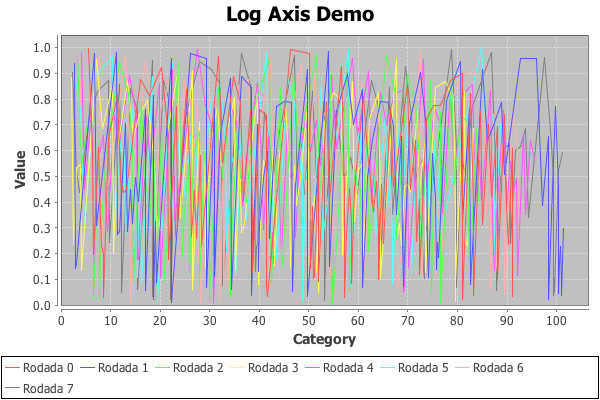
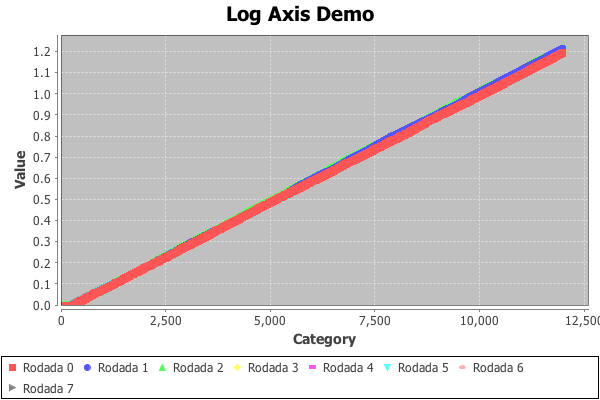
guradando testes - RETA ! qty

diff --git a/Simulador/src/br/ufrj/dcc/controle/Simulador.java b/Simulador/src/br/ufrj/dcc/controle/Simulador.java
@@ -5,6 +5,7 @@ import java.io.IOException;
 import java.util.ArrayList;
 import java.util.Collection;
 import java.util.Collections;
+import java.util.List;
 import java.util.Set;
 import java.util.TreeSet;
 
@@ -178,23 +179,38 @@ public class Simulador {
 		}
 		
 		int range = (int)rangeOfAxis;
-		range = (int) ((range *1.1)/listaRodadas.getNumRows());		
+		range = (int) ((range *1.2)/listaRodadas.getNumRows());		
 		
 		XYSeriesCollection dataset = new XYSeriesCollection();
 		
 		for (int i = 0; i < listaRodadas.getNumRows(); i++) {
-			Integer size = listaRodadas.getArrayListRow(i).size();
-			Double[] arr = new Double[listaRodadas.getArrayListRow(i).size()]; 
-			arr = listaRodadas.getArrayListRow(i).toArray(arr);
 			XYSeries serie = new XYSeries("Rodada "+ i);
 			
-
-			
+			ArrayList<Double> list = listaRodadas.getArrayListRow(i);
+			int listSize = list.size();
+			int qty = 0;
+			Double probability = 0.0;
 			for(Double axisX = 1.0 ; axisX <= range; axisX++)
 			{				
-				int nearIndex = NearUtil.nearInclusive(arr, axisX);
-				Double value = (nearIndex + 1) / size.doubleValue();
-				serie.add(axisX, value);
+				if(list.size() > 1)
+				{
+					int nearIndex = 0;
+					nearIndex = findNearestIndex(list, axisX);
+					if(nearIndex > 0)
+						list.removeAll(new ArrayList<Double>(list.subList(0, nearIndex + 1)));
+					else if(nearIndex == 0)
+						list.remove(0);
+					if(nearIndex >= 0)
+						qty += nearIndex + 1;
+				}
+				else
+				{
+					qty+= 1;
+					serie.add(axisX, probability);	
+				}
+				probability = (qty) / (double)listSize;
+				serie.add(axisX, probability);
+				
 			}
 			
 
@@ -202,7 +218,7 @@ public class Simulador {
 			
 		} 
 		
-        JFreeChart chart = ChartFactory.createXYLineChart(
+        JFreeChart chart = ChartFactory.createScatterPlot(
             "Log Axis Demo",          // chart title
             "Category",               // domain axis label
             "Value",                  // range axis label
@@ -219,6 +235,26 @@ public class Simulador {
 			// TODO Auto-generated catch block
 			e.printStackTrace();
 		}
+	}
+	
+	private static int findNearestIndex(List<Double> list, double key)
+	{	
+		int index = 0;
+		int i=0;
+		while(index == 0) {
+			if(list.size() -1 == i)
+			{
+				break;
+			}
+			if(list.get(i) >= key)
+			{
+				index = i -1;
+				break;
+			}
+			i++;
+		}
+		if(index < 0) index = -1;
+		return index;
 	}
 	
 	/** Returns the cumulative distribution function. */

diff --git a/Simulador/src/br/ufrj/dcc/controle/Rodada.java b/Simulador/src/br/ufrj/dcc/controle/Rodada.java
@@ -100,14 +100,14 @@ public class Rodada {
 						// como não transiente e a partir de agora será computada
 						// a estatística
 						gerenciador.geraEventoDeChegada(horaAtual, fila1, CorCliente.NAOTRANSIENTE);
-						
+
+						//insiro na lista de tempos
+						listaTempos.add(horaAtual);
 						
 					}
 					// incrementa a quantidade de chegadas
 					i++;
 					
-					//insiro na lista de tempos
-					listaTempos.add(horaAtual);
 				} else {
 					// se já tiver gerado chegadas suficiente seto o próximo evento de chegada para null.
 					gerenciador.proximoEventoChegada = null;

diff --git a/Simulador/src/br/ufrj/dcc/controle/ManipulaXML.java b/Simulador/src/br/ufrj/dcc/controle/ManipulaXML.java
@@ -54,10 +54,10 @@ public class ManipulaXML {
 		int numerorodadas = 8;
 		// retorna o valor da tag fasetransiente
 //		int fasetransiente = Integer.parseInt(getChildTagValue(tagConfig, "fasetransiente"))
-		int fasetransiente = 100;	
+		int fasetransiente = 300;	
 		// retorna o valor da tag tamamnhorodadas
 //		int tamanhorodadas = Integer.parseInt(getChildTagValue(tagConfig, "tamanhorodadas"));
-		int tamanhorodadas = 2000;
+		int tamanhorodadas = 10000;
 		
 		
 		
